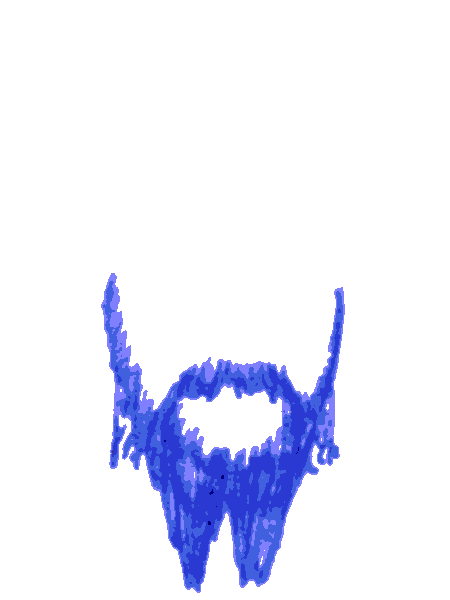
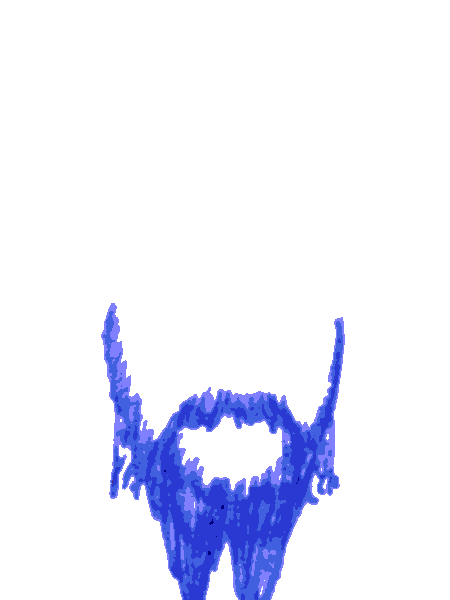
New noses!
Also corrected the position of some beards. Moved tools into the helpers
subdirectory.

Changed region(s): [[0.2178, 0.45, 0.7778, 1.0]]

diff --git a/README.md b/README.md
@@ -71,13 +71,14 @@ a similar resource.
    produced) to PNG. Don't worry about transparency: *white* is
    considered to be *transparent* when merging the various elements.
 
-5. Cut the image into elements using [cutter.pl](cutter.pl). It cuts
-   the scan into 5 × 5 images of 450 × 600 pixels each and labels them
-   by row. You'd invoke it as follows: `perl cutter.pl source1.png
-   eyes nose mouth hair chin` or `perl cutter.pl source2.png eyes nose
-   mouth hair ears`. If the remaining rows are all the same type, you
-   don't need to repeat it. Thus, if you've drawn a sheet full of
-   eyes, just use `perl cutter.pl source4.png eyes` and you're good.
+5. Cut the image into elements using [cutter.pl](helpers/cutter.pl).
+   It cuts the scan into 5 × 5 images of 450 × 600 pixels each and
+   labels them by row. You'd invoke it as follows: `perl
+   helpers/cutter.pl source1.png eyes nose mouth hair chin` or `perl
+   helpers/cutter.pl source2.png eyes nose mouth hair ears`. If the
+   remaining rows are all the same type, you don't need to repeat it.
+   Thus, if you've drawn a sheet full of eyes, just use `perl
+   cutter.pl source4.png eyes` and you're good.
 
 6. If you think that some of your samples are specific to a particular
    phenotype, add the type to the filename. If you have a beard, for
@@ -106,4 +107,15 @@ pixels:
 for n in `seq 34`; do
   convert -page +0+35 -background white -flatten elements/eyes_all_$n.png eyes_all_$n.png
 done
+```
+
+If you need help figuring out by how much you might want to shift
+images, you can use [top.pl](helpers/top.pl) and
+[bottom.pl](helpers/bottom.pl). They cound how many white lines there
+are at the top and at the bottom, respectively.
+
+Example usage:
+
+```
+perl helpers/top.pl elements/eyes_all_*
 ```
